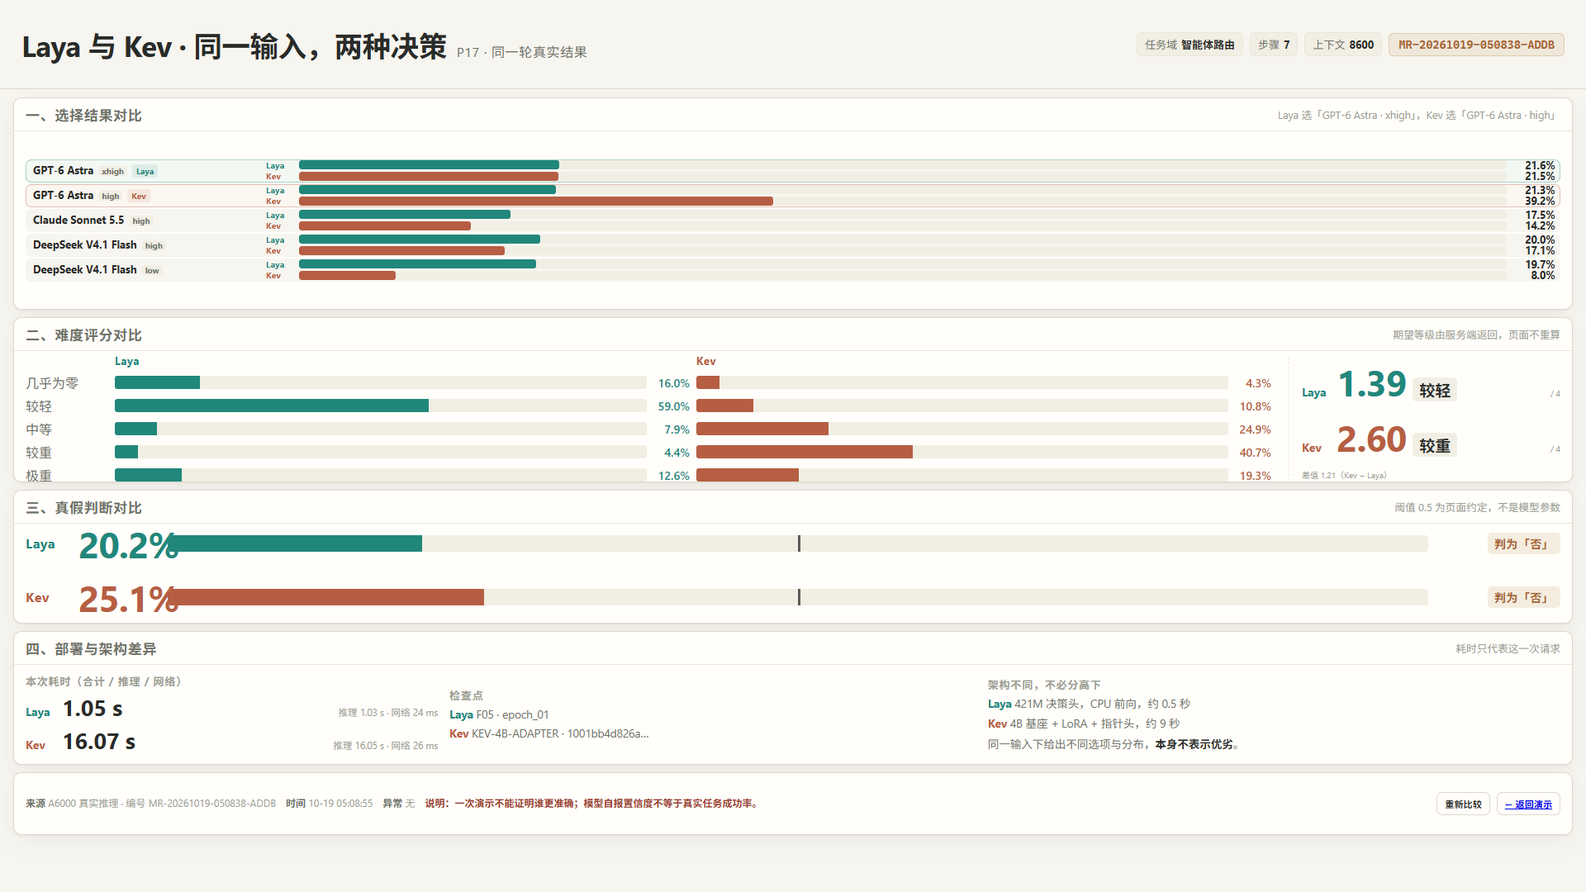
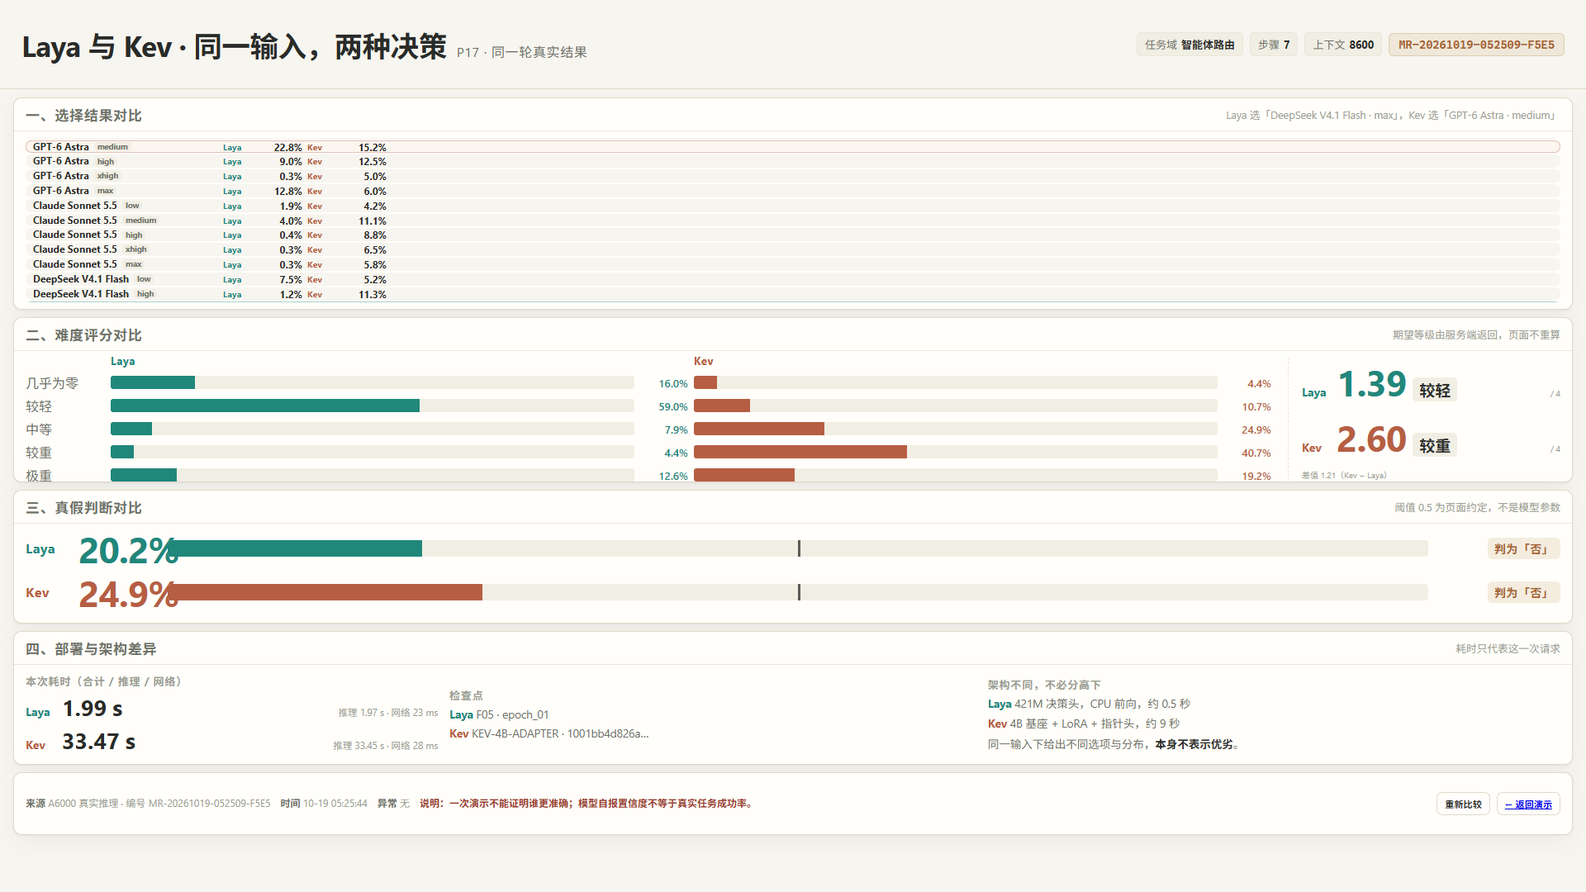
feat(p16-p17): 全档位模型池与多候选布局
- 模型池扩为全部 13 个组合：Astra 与 Sonnet 5.5 各 low/medium/high/xhigh/max，V4.1 Flash low/high/max
- Model×Effort 预设改为全池 13 选项联合决策；左栏树形完整展示各模型全部档位
- P16 结果卡候选 >5 时启用紧凑模式并重分配三块高度（Choice 1.6 / Score 0.9 / Noul 0.72）
- P17 候选 >8 时切换横向双条模式（每行模型档位 + Laya/Kev 并排条），修复百分比列 44px 越界
- 修复 pick 大字行高裁切与三档标签列溢出；两页 overflow 扫描全部清零

diff --git a/汇报/汇报三/assets/live.js b/汇报/汇报三/assets/live.js
@@ -46,13 +46,23 @@ const MR = (() => {
      Claude Sonnet 5.5 : low / medium / high / xhigh / max（API 默认 high）
      DeepSeek V4.1 Flash: low / high / max（默认 high）
   ------------------------------------------------------------- */
+  /* 全部具体档位（2026-10 官方核实）：
+     GPT-6 Astra / Claude Sonnet 5.5 : low / medium / high / xhigh / max
+     DeepSeek V4.1 Flash             : low / high / max */
   const MODEL_POOL = {
-    'gpt-6-astra/xhigh':          { short: 'Astra · xhigh',       model: 'GPT-6 Astra',         modelShort: 'Astra',        effort: 'xhigh',  tier: '旗舰' },
+    'gpt-6-astra/low':            { short: 'Astra · low',         model: 'GPT-6 Astra',         modelShort: 'Astra',        effort: 'low',    tier: '旗舰' },
+    'gpt-6-astra/medium':         { short: 'Astra · medium',      model: 'GPT-6 Astra',         modelShort: 'Astra',        effort: 'medium', tier: '旗舰' },
     'gpt-6-astra/high':           { short: 'Astra · high',        model: 'GPT-6 Astra',         modelShort: 'Astra',        effort: 'high',   tier: '旗舰' },
-    'claude-sonnet-5.5/high':     { short: 'Sonnet 5.5 · high',   model: 'Claude Sonnet 5.5',   modelShort: 'Sonnet 5.5',   effort: 'high',   tier: '中档' },
+    'gpt-6-astra/xhigh':          { short: 'Astra · xhigh',       model: 'GPT-6 Astra',         modelShort: 'Astra',        effort: 'xhigh',  tier: '旗舰' },
+    'gpt-6-astra/max':            { short: 'Astra · max',         model: 'GPT-6 Astra',         modelShort: 'Astra',        effort: 'max',    tier: '旗舰' },
+    'claude-sonnet-5.5/low':      { short: 'Sonnet 5.5 · low',    model: 'Claude Sonnet 5.5',   modelShort: 'Sonnet 5.5',   effort: 'low',    tier: '中档' },
     'claude-sonnet-5.5/medium':   { short: 'Sonnet 5.5 · medium', model: 'Claude Sonnet 5.5',   modelShort: 'Sonnet 5.5',   effort: 'medium', tier: '中档' },
+    'claude-sonnet-5.5/high':     { short: 'Sonnet 5.5 · high',   model: 'Claude Sonnet 5.5',   modelShort: 'Sonnet 5.5',   effort: 'high',   tier: '中档' },
+    'claude-sonnet-5.5/xhigh':    { short: 'Sonnet 5.5 · xhigh',  model: 'Claude Sonnet 5.5',   modelShort: 'Sonnet 5.5',   effort: 'xhigh',  tier: '中档' },
+    'claude-sonnet-5.5/max':      { short: 'Sonnet 5.5 · max',    model: 'Claude Sonnet 5.5',   modelShort: 'Sonnet 5.5',   effort: 'max',    tier: '中档' },
+    'deepseek-v4.1-flash/low':    { short: 'V4.1 Flash · low',    model: 'DeepSeek V4.1 Flash', modelShort: 'V4.1 Flash',   effort: 'low',    tier: '轻量' },
     'deepseek-v4.1-flash/high':   { short: 'V4.1 Flash · high',   model: 'DeepSeek V4.1 Flash', modelShort: 'V4.1 Flash',   effort: 'high',   tier: '轻量' },
-    'deepseek-v4.1-flash/low':    { short: 'V4.1 Flash · low',    model: 'DeepSeek V4.1 Flash', modelShort: 'V4.1 Flash',   effort: 'low',    tier: '轻量' }
+    'deepseek-v4.1-flash/max':    { short: 'V4.1 Flash · max',    model: 'DeepSeek V4.1 Flash', modelShort: 'V4.1 Flash',   effort: 'max',    tier: '轻量' }
   };
 
   /* 默认三档（每个模型取一个代表档位） */
@@ -62,13 +72,21 @@ const MR = (() => {
     'deepseek-v4.1-flash/low': 'DeepSeek V4.1 Flash · low｜轻量，成本最低'
   };
 
-  /* 联合档位（同模型不同 effort 一起决策） */
+  /* 联合档位：全部 13 个「模型 × 推理档位」组合一起决策 */
   const POOL_JOINT = {
-    'gpt-6-astra/xhigh': 'GPT-6 Astra · xhigh｜旗舰，Extra High',
+    'gpt-6-astra/low': 'GPT-6 Astra · low｜旗舰，最低推理，最快最省',
+    'gpt-6-astra/medium': 'GPT-6 Astra · medium｜旗舰，中档推理',
     'gpt-6-astra/high': 'GPT-6 Astra · high｜旗舰，高推理',
-    'claude-sonnet-5.5/high': 'Claude Sonnet 5.5 · high｜中档，默认档',
-    'deepseek-v4.1-flash/high': 'DeepSeek V4.1 Flash · high｜轻量，高质量档',
-    'deepseek-v4.1-flash/low': 'DeepSeek V4.1 Flash · low｜轻量，最省成本'
+    'gpt-6-astra/xhigh': 'GPT-6 Astra · xhigh｜旗舰，Extra High，很贵',
+    'gpt-6-astra/max': 'GPT-6 Astra · max｜旗舰，最高推理，最贵最慢',
+    'claude-sonnet-5.5/low': 'Claude Sonnet 5.5 · low｜中档，最低推理',
+    'claude-sonnet-5.5/medium': 'Claude Sonnet 5.5 · medium｜中档，中档推理',
+    'claude-sonnet-5.5/high': 'Claude Sonnet 5.5 · high｜中档，API 默认档',
+    'claude-sonnet-5.5/xhigh': 'Claude Sonnet 5.5 · xhigh｜中档，超高推理',
+    'claude-sonnet-5.5/max': 'Claude Sonnet 5.5 · max｜中档，最高推理',
+    'deepseek-v4.1-flash/low': 'DeepSeek V4.1 Flash · low｜轻量，最省成本',
+    'deepseek-v4.1-flash/high': 'DeepSeek V4.1 Flash · high｜轻量，默认高质量档',
+    'deepseek-v4.1-flash/max': 'DeepSeek V4.1 Flash · max｜轻量，最高推理'
   };
 
   function describeOption(key) {

diff --git a/汇报/汇报三/dist/assets/live.js b/汇报/汇报三/dist/assets/live.js
@@ -46,13 +46,23 @@ const MR = (() => {
      Claude Sonnet 5.5 : low / medium / high / xhigh / max（API 默认 high）
      DeepSeek V4.1 Flash: low / high / max（默认 high）
   ------------------------------------------------------------- */
+  /* 全部具体档位（2026-10 官方核实）：
+     GPT-6 Astra / Claude Sonnet 5.5 : low / medium / high / xhigh / max
+     DeepSeek V4.1 Flash             : low / high / max */
   const MODEL_POOL = {
-    'gpt-6-astra/xhigh':          { short: 'Astra · xhigh',       model: 'GPT-6 Astra',         modelShort: 'Astra',        effort: 'xhigh',  tier: '旗舰' },
+    'gpt-6-astra/low':            { short: 'Astra · low',         model: 'GPT-6 Astra',         modelShort: 'Astra',        effort: 'low',    tier: '旗舰' },
+    'gpt-6-astra/medium':         { short: 'Astra · medium',      model: 'GPT-6 Astra',         modelShort: 'Astra',        effort: 'medium', tier: '旗舰' },
     'gpt-6-astra/high':           { short: 'Astra · high',        model: 'GPT-6 Astra',         modelShort: 'Astra',        effort: 'high',   tier: '旗舰' },
-    'claude-sonnet-5.5/high':     { short: 'Sonnet 5.5 · high',   model: 'Claude Sonnet 5.5',   modelShort: 'Sonnet 5.5',   effort: 'high',   tier: '中档' },
+    'gpt-6-astra/xhigh':          { short: 'Astra · xhigh',       model: 'GPT-6 Astra',         modelShort: 'Astra',        effort: 'xhigh',  tier: '旗舰' },
+    'gpt-6-astra/max':            { short: 'Astra · max',         model: 'GPT-6 Astra',         modelShort: 'Astra',        effort: 'max',    tier: '旗舰' },
+    'claude-sonnet-5.5/low':      { short: 'Sonnet 5.5 · low',    model: 'Claude Sonnet 5.5',   modelShort: 'Sonnet 5.5',   effort: 'low',    tier: '中档' },
     'claude-sonnet-5.5/medium':   { short: 'Sonnet 5.5 · medium', model: 'Claude Sonnet 5.5',   modelShort: 'Sonnet 5.5',   effort: 'medium', tier: '中档' },
+    'claude-sonnet-5.5/high':     { short: 'Sonnet 5.5 · high',   model: 'Claude Sonnet 5.5',   modelShort: 'Sonnet 5.5',   effort: 'high',   tier: '中档' },
+    'claude-sonnet-5.5/xhigh':    { short: 'Sonnet 5.5 · xhigh',  model: 'Claude Sonnet 5.5',   modelShort: 'Sonnet 5.5',   effort: 'xhigh',  tier: '中档' },
+    'claude-sonnet-5.5/max':      { short: 'Sonnet 5.5 · max',    model: 'Claude Sonnet 5.5',   modelShort: 'Sonnet 5.5',   effort: 'max',    tier: '中档' },
+    'deepseek-v4.1-flash/low':    { short: 'V4.1 Flash · low',    model: 'DeepSeek V4.1 Flash', modelShort: 'V4.1 Flash',   effort: 'low',    tier: '轻量' },
     'deepseek-v4.1-flash/high':   { short: 'V4.1 Flash · high',   model: 'DeepSeek V4.1 Flash', modelShort: 'V4.1 Flash',   effort: 'high',   tier: '轻量' },
-    'deepseek-v4.1-flash/low':    { short: 'V4.1 Flash · low',    model: 'DeepSeek V4.1 Flash', modelShort: 'V4.1 Flash',   effort: 'low',    tier: '轻量' }
+    'deepseek-v4.1-flash/max':    { short: 'V4.1 Flash · max',    model: 'DeepSeek V4.1 Flash', modelShort: 'V4.1 Flash',   effort: 'max',    tier: '轻量' }
   };
 
   /* 默认三档（每个模型取一个代表档位） */
@@ -62,13 +72,21 @@ const MR = (() => {
     'deepseek-v4.1-flash/low': 'DeepSeek V4.1 Flash · low｜轻量，成本最低'
   };
 
-  /* 联合档位（同模型不同 effort 一起决策） */
+  /* 联合档位：全部 13 个「模型 × 推理档位」组合一起决策 */
   const POOL_JOINT = {
-    'gpt-6-astra/xhigh': 'GPT-6 Astra · xhigh｜旗舰，Extra High',
+    'gpt-6-astra/low': 'GPT-6 Astra · low｜旗舰，最低推理，最快最省',
+    'gpt-6-astra/medium': 'GPT-6 Astra · medium｜旗舰，中档推理',
     'gpt-6-astra/high': 'GPT-6 Astra · high｜旗舰，高推理',
-    'claude-sonnet-5.5/high': 'Claude Sonnet 5.5 · high｜中档，默认档',
-    'deepseek-v4.1-flash/high': 'DeepSeek V4.1 Flash · high｜轻量，高质量档',
-    'deepseek-v4.1-flash/low': 'DeepSeek V4.1 Flash · low｜轻量，最省成本'
+    'gpt-6-astra/xhigh': 'GPT-6 Astra · xhigh｜旗舰，Extra High，很贵',
+    'gpt-6-astra/max': 'GPT-6 Astra · max｜旗舰，最高推理，最贵最慢',
+    'claude-sonnet-5.5/low': 'Claude Sonnet 5.5 · low｜中档，最低推理',
+    'claude-sonnet-5.5/medium': 'Claude Sonnet 5.5 · medium｜中档，中档推理',
+    'claude-sonnet-5.5/high': 'Claude Sonnet 5.5 · high｜中档，API 默认档',
+    'claude-sonnet-5.5/xhigh': 'Claude Sonnet 5.5 · xhigh｜中档，超高推理',
+    'claude-sonnet-5.5/max': 'Claude Sonnet 5.5 · max｜中档，最高推理',
+    'deepseek-v4.1-flash/low': 'DeepSeek V4.1 Flash · low｜轻量，最省成本',
+    'deepseek-v4.1-flash/high': 'DeepSeek V4.1 Flash · high｜轻量，默认高质量档',
+    'deepseek-v4.1-flash/max': 'DeepSeek V4.1 Flash · max｜轻量，最高推理'
   };
 
   function describeOption(key) {

diff --git a/汇报/汇报三/dist/interactive/P17.html b/汇报/汇报三/dist/interactive/P17.html
@@ -104,6 +104,17 @@
   #choice-grid.dense .dual-row { grid-template-columns: 34px 1fr 50px; gap: 6px; line-height: 1; }
   #choice-grid.dense .dual-row .who { font-size: clamp(8px, 0.56vw, 10px); }
   #choice-grid.dense .dual-row .val { font-size: clamp(10px, 0.7vw, 12.5px); }
+  /* ---- 超多候选（>8）：每行单行双条横向排 ---- */
+  #choice-grid.wide .choice-list { gap: 2px; }
+  #choice-grid.wide .choice-row { grid-template-columns: 216px 1fr; padding: 0 8px; }
+  #choice-grid.wide .cr-bars { flex-direction: row; gap: 12px; }
+  #choice-grid.wide .cr-bars .dual-row { grid-template-columns: 32px 1fr 46px; gap: 6px; line-height: 1; }
+  #choice-grid.wide .dual-track { height: 12px; }
+  #choice-grid.wide .cr-model { font-size: clamp(9.5px, 0.66vw, 12px); }
+  #choice-grid.wide .cr-effort { font-size: clamp(8px, 0.5vw, 9.5px); padding: 0 4px; }
+  #choice-grid.wide .dual-row .who { font-size: clamp(8px, 0.52vw, 10px); }
+  #choice-grid.wide .dual-row .val { font-size: clamp(9.5px, 0.64vw, 12px); }
+  #choice-grid.wide .cr-flag { display: none; }
 
   .dual-bar { display: flex; flex-direction: column; gap: 6px; }
   .dual-row { display: grid; grid-template-columns: 44px 1fr 62px; align-items: center; gap: 9px; }
@@ -120,16 +131,16 @@
   #sec-score { flex: 0 0 21%; }
   .score-wrap { flex: 1; display: grid; grid-template-columns: 1fr 330px; gap: 20px; min-height: 0; }
   .lvl-list { display: flex; flex-direction: column; gap: 4px; justify-content: center; min-height: 0; }
-  .lvl-row { display: grid; grid-template-columns: 100px 1fr 44px 1fr 44px; align-items: center; gap: 8px; }
+  .lvl-row { display: grid; grid-template-columns: 96px 1fr 58px 1fr 58px; align-items: center; gap: 7px; }
   .lvl-name { font-size: clamp(12px, 0.86vw, 16px); color: var(--muted); white-space: nowrap; overflow: hidden; text-overflow: ellipsis; }
   .lvl-track { display: block; height: 16px; background: var(--wash); border-radius: 3px; overflow: hidden; }
   .lvl-fill { display: block; height: 100%; width: 0; transition: width .6s cubic-bezier(.22,.61,.36,1); }
   .lvl-fill.laya { background: var(--laya); }
   .lvl-fill.kev { background: var(--kev); }
-  .lvl-pct { font-size: clamp(11px, 0.76vw, 14px); font-variant-numeric: tabular-nums; text-align: right; }
+  .lvl-pct { font-size: clamp(10px, 0.7vw, 13px); font-variant-numeric: tabular-nums; text-align: right; white-space: nowrap; overflow: hidden; }
   .lvl-pct.laya { color: var(--laya); font-weight: 600; }
   .lvl-pct.kev { color: var(--kev); font-weight: 600; }
-  .lvl-head { display: grid; grid-template-columns: 100px 1fr 44px 1fr 44px; align-items: center; gap: 8px; margin-bottom: 2px; }
+  .lvl-head { display: grid; grid-template-columns: 96px 1fr 58px 1fr 58px; align-items: center; gap: 7px; margin-bottom: 2px; }
   .lvl-who { font-size: clamp(10px, 0.7vw, 13px); font-weight: 700; letter-spacing: .04em; }
   .lvl-who.laya { color: var(--laya); }
   .lvl-who.kev { color: var(--kev); }
@@ -151,7 +162,7 @@
   .noul-row .who { font-size: clamp(12px, 0.86vw, 16px); font-weight: 700; letter-spacing: .03em; }
   .noul-row .who.laya { color: var(--laya); }
   .noul-row .who.kev { color: var(--kev); }
-  .noul-row .num { font-size: clamp(26px, 2.3vw, 44px); font-weight: 700; letter-spacing: -.02em; font-variant-numeric: tabular-nums; text-align: right; }
+  .noul-row .num { font-size: clamp(26px, 2.3vw, 44px); font-weight: 700; letter-spacing: -.02em; font-variant-numeric: tabular-nums; text-align: right; min-width: 0; line-height: 1.05; }
   .noul-row .num.laya { color: var(--laya); }
   .noul-row .num.kev { color: var(--kev); }
   .noul-track { display: block; height: 20px; background: var(--wash); border-radius: 4px; position: relative; overflow: hidden; }
@@ -333,6 +344,7 @@
     [laya, kev].forEach(a => Object.keys(a?.probabilities || {}).forEach(k => { if (!keys.includes(k)) keys.push(k); }));
 
     box.classList.toggle('dense', keys.length > 3);
+    box.classList.toggle('wide', keys.length > 8);
     box.innerHTML = `<div class="choice-list">` + keys.map(k => {
       const meta = MR.describeOption(k);
       const pl = laya?.probabilities?.[k], pk = kev?.probabilities?.[k];

diff --git a/汇报/汇报三/interactive/P17.html b/汇报/汇报三/interactive/P17.html
@@ -104,6 +104,17 @@
   #choice-grid.dense .dual-row { grid-template-columns: 34px 1fr 50px; gap: 6px; line-height: 1; }
   #choice-grid.dense .dual-row .who { font-size: clamp(8px, 0.56vw, 10px); }
   #choice-grid.dense .dual-row .val { font-size: clamp(10px, 0.7vw, 12.5px); }
+  /* ---- 超多候选（>8）：每行单行双条横向排 ---- */
+  #choice-grid.wide .choice-list { gap: 2px; }
+  #choice-grid.wide .choice-row { grid-template-columns: 216px 1fr; padding: 0 8px; }
+  #choice-grid.wide .cr-bars { flex-direction: row; gap: 12px; }
+  #choice-grid.wide .cr-bars .dual-row { grid-template-columns: 32px 1fr 46px; gap: 6px; line-height: 1; }
+  #choice-grid.wide .dual-track { height: 12px; }
+  #choice-grid.wide .cr-model { font-size: clamp(9.5px, 0.66vw, 12px); }
+  #choice-grid.wide .cr-effort { font-size: clamp(8px, 0.5vw, 9.5px); padding: 0 4px; }
+  #choice-grid.wide .dual-row .who { font-size: clamp(8px, 0.52vw, 10px); }
+  #choice-grid.wide .dual-row .val { font-size: clamp(9.5px, 0.64vw, 12px); }
+  #choice-grid.wide .cr-flag { display: none; }
 
   .dual-bar { display: flex; flex-direction: column; gap: 6px; }
   .dual-row { display: grid; grid-template-columns: 44px 1fr 62px; align-items: center; gap: 9px; }
@@ -120,16 +131,16 @@
   #sec-score { flex: 0 0 21%; }
   .score-wrap { flex: 1; display: grid; grid-template-columns: 1fr 330px; gap: 20px; min-height: 0; }
   .lvl-list { display: flex; flex-direction: column; gap: 4px; justify-content: center; min-height: 0; }
-  .lvl-row { display: grid; grid-template-columns: 100px 1fr 44px 1fr 44px; align-items: center; gap: 8px; }
+  .lvl-row { display: grid; grid-template-columns: 96px 1fr 58px 1fr 58px; align-items: center; gap: 7px; }
   .lvl-name { font-size: clamp(12px, 0.86vw, 16px); color: var(--muted); white-space: nowrap; overflow: hidden; text-overflow: ellipsis; }
   .lvl-track { display: block; height: 16px; background: var(--wash); border-radius: 3px; overflow: hidden; }
   .lvl-fill { display: block; height: 100%; width: 0; transition: width .6s cubic-bezier(.22,.61,.36,1); }
   .lvl-fill.laya { background: var(--laya); }
   .lvl-fill.kev { background: var(--kev); }
-  .lvl-pct { font-size: clamp(11px, 0.76vw, 14px); font-variant-numeric: tabular-nums; text-align: right; }
+  .lvl-pct { font-size: clamp(10px, 0.7vw, 13px); font-variant-numeric: tabular-nums; text-align: right; white-space: nowrap; overflow: hidden; }
   .lvl-pct.laya { color: var(--laya); font-weight: 600; }
   .lvl-pct.kev { color: var(--kev); font-weight: 600; }
-  .lvl-head { display: grid; grid-template-columns: 100px 1fr 44px 1fr 44px; align-items: center; gap: 8px; margin-bottom: 2px; }
+  .lvl-head { display: grid; grid-template-columns: 96px 1fr 58px 1fr 58px; align-items: center; gap: 7px; margin-bottom: 2px; }
   .lvl-who { font-size: clamp(10px, 0.7vw, 13px); font-weight: 700; letter-spacing: .04em; }
   .lvl-who.laya { color: var(--laya); }
   .lvl-who.kev { color: var(--kev); }
@@ -151,7 +162,7 @@
   .noul-row .who { font-size: clamp(12px, 0.86vw, 16px); font-weight: 700; letter-spacing: .03em; }
   .noul-row .who.laya { color: var(--laya); }
   .noul-row .who.kev { color: var(--kev); }
-  .noul-row .num { font-size: clamp(26px, 2.3vw, 44px); font-weight: 700; letter-spacing: -.02em; font-variant-numeric: tabular-nums; text-align: right; }
+  .noul-row .num { font-size: clamp(26px, 2.3vw, 44px); font-weight: 700; letter-spacing: -.02em; font-variant-numeric: tabular-nums; text-align: right; min-width: 0; line-height: 1.05; }
   .noul-row .num.laya { color: var(--laya); }
   .noul-row .num.kev { color: var(--kev); }
   .noul-track { display: block; height: 20px; background: var(--wash); border-radius: 4px; position: relative; overflow: hidden; }
@@ -333,6 +344,7 @@
     [laya, kev].forEach(a => Object.keys(a?.probabilities || {}).forEach(k => { if (!keys.includes(k)) keys.push(k); }));
 
     box.classList.toggle('dense', keys.length > 3);
+    box.classList.toggle('wide', keys.length > 8);
     box.innerHTML = `<div class="choice-list">` + keys.map(k => {
       const meta = MR.describeOption(k);
       const pl = laya?.probabilities?.[k], pk = kev?.probabilities?.[k];

diff --git a/汇报/汇报三/dist/interactive/P16.html b/汇报/汇报三/dist/interactive/P16.html
@@ -229,7 +229,7 @@
   .pick { display: flex; align-items: baseline; gap: 9px; margin: 5px 0 8px; }
   .pick .name {
     font-size: clamp(27px, 2.45vw, 47px);
-    font-weight: 700; letter-spacing: -.02em; line-height: 1.1;
+    font-weight: 700; letter-spacing: -.02em; line-height: 1.3;
   }
   .pick .name.laya { color: var(--laya); }
   .pick .name.kev { color: var(--kev); }
@@ -252,7 +252,7 @@
   .pick .effort.kev { background: rgba(182,94,67,.12); color: var(--kev); }
 
   .bars { display: flex; flex-direction: column; gap: 6px; }
-  .bar-row { display: grid; grid-template-columns: 128px 1fr 64px; align-items: center; gap: 10px; }
+  .bar-row { display: grid; grid-template-columns: 142px 1fr 64px; align-items: center; gap: 10px; }
   .bar-group { display: flex; flex-direction: column; gap: 3px; }
   .bar-group + .bar-group { margin-top: 6px; }
   .bar-group-head {
@@ -270,6 +270,20 @@
     color: var(--muted); font-weight: 650;
   }
   .bar-row.sub { grid-template-columns: 104px 1fr 64px; padding-left: 12px; }
+  /* ---- 多候选（>5）紧凑模式 ---- */
+  .block.many .pick { margin: 3px 0 6px; }
+  .block.many .pick .name { font-size: clamp(22px, 1.9vw, 36px); }
+  .block.many .pick .pct { font-size: clamp(15px, 1.2vw, 23px); }
+  .block.many .bar-track { height: 14px; }
+  .block.many .bar-row { grid-template-columns: 100px 1fr 56px; gap: 8px; }
+  .block.many .bar-row.sub { grid-template-columns: 84px 1fr 56px; padding-left: 10px; }
+  .block.many .bar-row .lbl, .block.many .bar-row .val { font-size: clamp(10px, 0.72vw, 13px); }
+  .block.many .bar-group + .bar-group { margin-top: 3px; }
+  .block.many .bar-group-head { font-size: clamp(10.5px, 0.72vw, 13.5px); }
+  /* 多候选时 Choice 块占更大高度 */
+  .panel-body.result.many-pool > .block:nth-child(1) { flex: 1.6 1 0; }
+  .panel-body.result.many-pool > .block:nth-child(2) { flex: 0.9 1 0; }
+  .panel-body.result.many-pool > .block:nth-child(3) { flex: 0.72 1 0; }
   .bar-row .lbl {
     font-size: clamp(12px, 0.9vw, 17px);
     color: var(--muted); white-space: nowrap; overflow: hidden; text-overflow: ellipsis;
@@ -761,7 +775,7 @@
       const probs = choice.probabilities || {};
       const entries = Object.entries(probs).sort((x, y) => y[1] - x[1]);
       const top = choice.choice || entries[0]?.[0];
-      html += `<div class="block">
+      html += `<div class="block${entries.length > 5 ? ' many' : ''}">
         <div class="block-title"><span>选择 / Choice</span><span class="hint">${entries.length} 个候选的完整概率</span></div>
         <div class="pick">
           <span class="name ${family}">${esc(MR.describeOption(top).modelShort)}</span>
@@ -859,6 +873,7 @@
     </div>`;
 
     body.innerHTML = html;
+    body.classList.toggle('many-pool', /class="block many"/.test(html));
     setChip($(family + '-state'), payload.fallback_used ? '已回退' : '已完成', payload.fallback_used ? 'run' : 'ok');
     MR.setDot($(family === 'laya' ? 'dot-laya-p' : 'dot-kev-p'), 'ok');
   }

diff --git a/汇报/汇报三/interactive/P16.html b/汇报/汇报三/interactive/P16.html
@@ -229,7 +229,7 @@
   .pick { display: flex; align-items: baseline; gap: 9px; margin: 5px 0 8px; }
   .pick .name {
     font-size: clamp(27px, 2.45vw, 47px);
-    font-weight: 700; letter-spacing: -.02em; line-height: 1.1;
+    font-weight: 700; letter-spacing: -.02em; line-height: 1.3;
   }
   .pick .name.laya { color: var(--laya); }
   .pick .name.kev { color: var(--kev); }
@@ -252,7 +252,7 @@
   .pick .effort.kev { background: rgba(182,94,67,.12); color: var(--kev); }
 
   .bars { display: flex; flex-direction: column; gap: 6px; }
-  .bar-row { display: grid; grid-template-columns: 128px 1fr 64px; align-items: center; gap: 10px; }
+  .bar-row { display: grid; grid-template-columns: 142px 1fr 64px; align-items: center; gap: 10px; }
   .bar-group { display: flex; flex-direction: column; gap: 3px; }
   .bar-group + .bar-group { margin-top: 6px; }
   .bar-group-head {
@@ -270,6 +270,20 @@
     color: var(--muted); font-weight: 650;
   }
   .bar-row.sub { grid-template-columns: 104px 1fr 64px; padding-left: 12px; }
+  /* ---- 多候选（>5）紧凑模式 ---- */
+  .block.many .pick { margin: 3px 0 6px; }
+  .block.many .pick .name { font-size: clamp(22px, 1.9vw, 36px); }
+  .block.many .pick .pct { font-size: clamp(15px, 1.2vw, 23px); }
+  .block.many .bar-track { height: 14px; }
+  .block.many .bar-row { grid-template-columns: 100px 1fr 56px; gap: 8px; }
+  .block.many .bar-row.sub { grid-template-columns: 84px 1fr 56px; padding-left: 10px; }
+  .block.many .bar-row .lbl, .block.many .bar-row .val { font-size: clamp(10px, 0.72vw, 13px); }
+  .block.many .bar-group + .bar-group { margin-top: 3px; }
+  .block.many .bar-group-head { font-size: clamp(10.5px, 0.72vw, 13.5px); }
+  /* 多候选时 Choice 块占更大高度 */
+  .panel-body.result.many-pool > .block:nth-child(1) { flex: 1.6 1 0; }
+  .panel-body.result.many-pool > .block:nth-child(2) { flex: 0.9 1 0; }
+  .panel-body.result.many-pool > .block:nth-child(3) { flex: 0.72 1 0; }
   .bar-row .lbl {
     font-size: clamp(12px, 0.9vw, 17px);
     color: var(--muted); white-space: nowrap; overflow: hidden; text-overflow: ellipsis;
@@ -761,7 +775,7 @@
       const probs = choice.probabilities || {};
       const entries = Object.entries(probs).sort((x, y) => y[1] - x[1]);
       const top = choice.choice || entries[0]?.[0];
-      html += `<div class="block">
+      html += `<div class="block${entries.length > 5 ? ' many' : ''}">
         <div class="block-title"><span>选择 / Choice</span><span class="hint">${entries.length} 个候选的完整概率</span></div>
         <div class="pick">
           <span class="name ${family}">${esc(MR.describeOption(top).modelShort)}</span>
@@ -859,6 +873,7 @@
     </div>`;
 
     body.innerHTML = html;
+    body.classList.toggle('many-pool', /class="block many"/.test(html));
     setChip($(family + '-state'), payload.fallback_used ? '已回退' : '已完成', payload.fallback_used ? 'run' : 'ok');
     MR.setDot($(family === 'laya' ? 'dot-laya-p' : 'dot-kev-p'), 'ok');
   }
